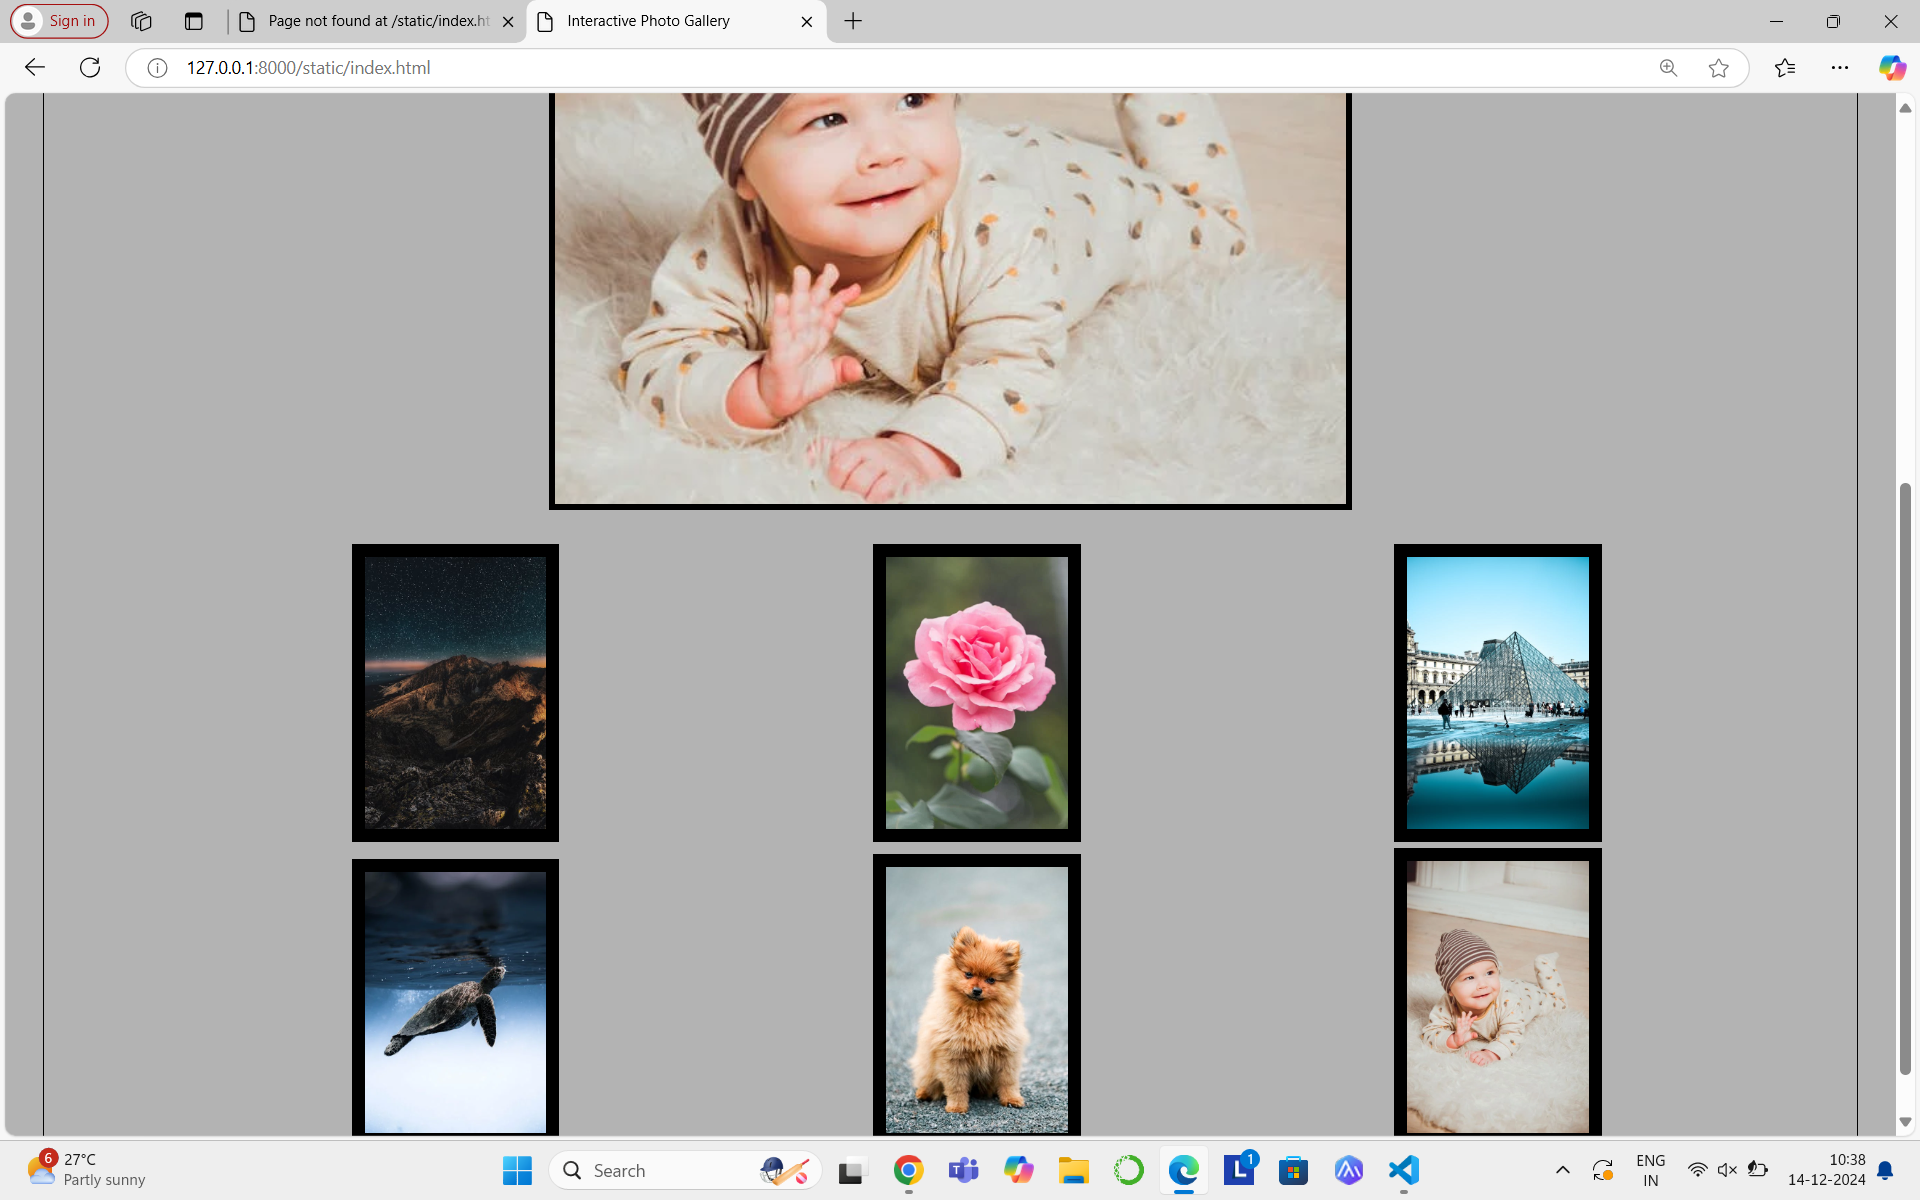
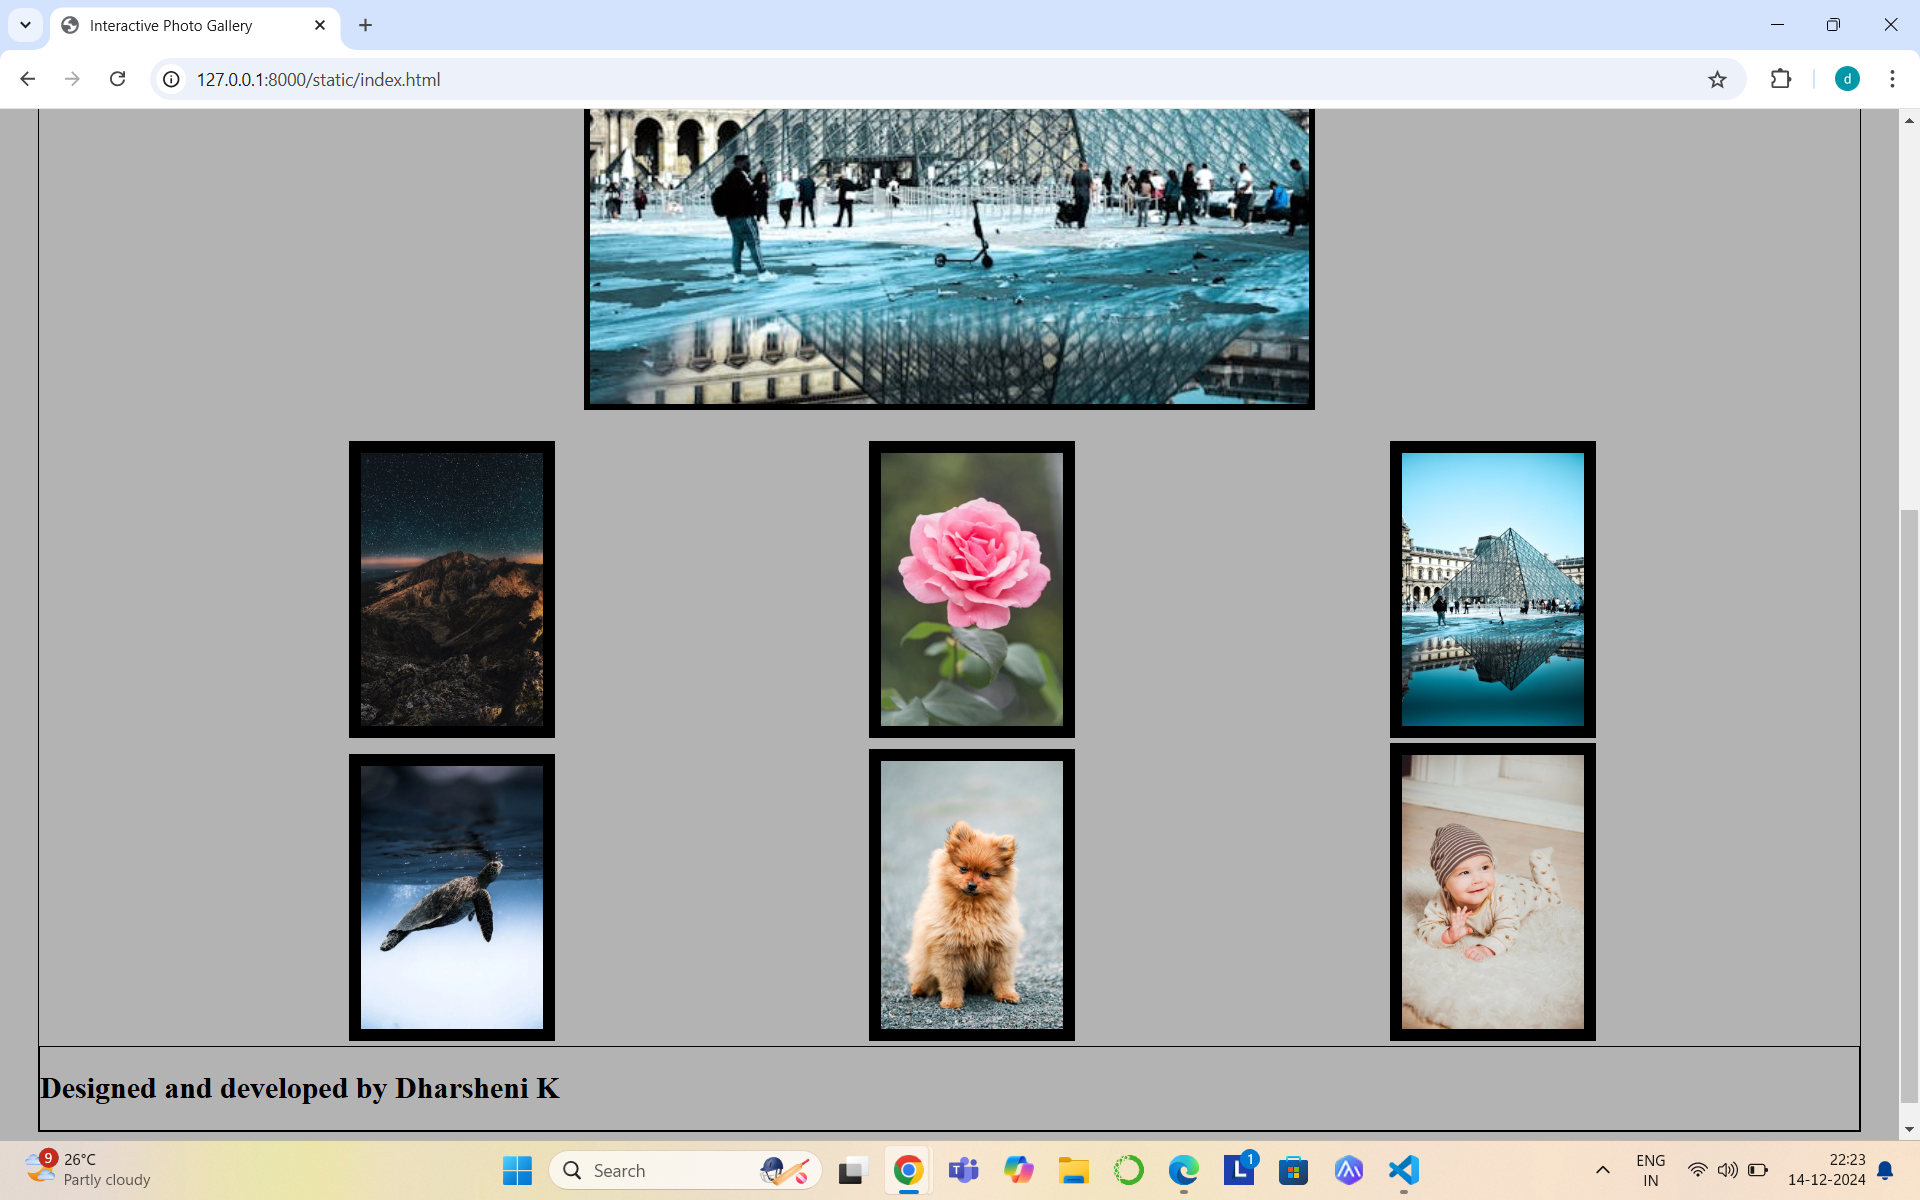
Success

diff --git a/dharsh/imgapp/static/index.html b/dharsh/imgapp/static/index.html
@@ -18,6 +18,10 @@
 	<img class = "preview" alt = "Cute Puppy" src = "https://images.pexels.com/photos/3687770/pexels-photo-3687770.jpeg?auto=compress&cs=tinysrgb&w=1260&h=750&dpr=1" onmouseover = "upDate(this)" onmouseout = "unDo()">
 	<img class = "preview" src = "https://images.pexels.com/photos/1648377/pexels-photo-1648377.jpeg?auto=compress&cs=tinysrgb&w=600" alt = "Baby" onmouseover = "upDate(this)" onmouseout = "unDo()">
     </div>
+    <footer id="footer" style="border: 1px solid black;">
+        <h2>Designed and developed by Dharsheni K</h2>
+    </footer>
+    
     <script src="script.js"></script>
 </body>
 </html>

diff --git a/dharsh/imgapp/static/style.css b/dharsh/imgapp/static/style.css
@@ -26,3 +26,6 @@ border: 10px solid black;
 img{
     width:95%;
 }
+#footer {
+    border: 1px solid black;
+}
